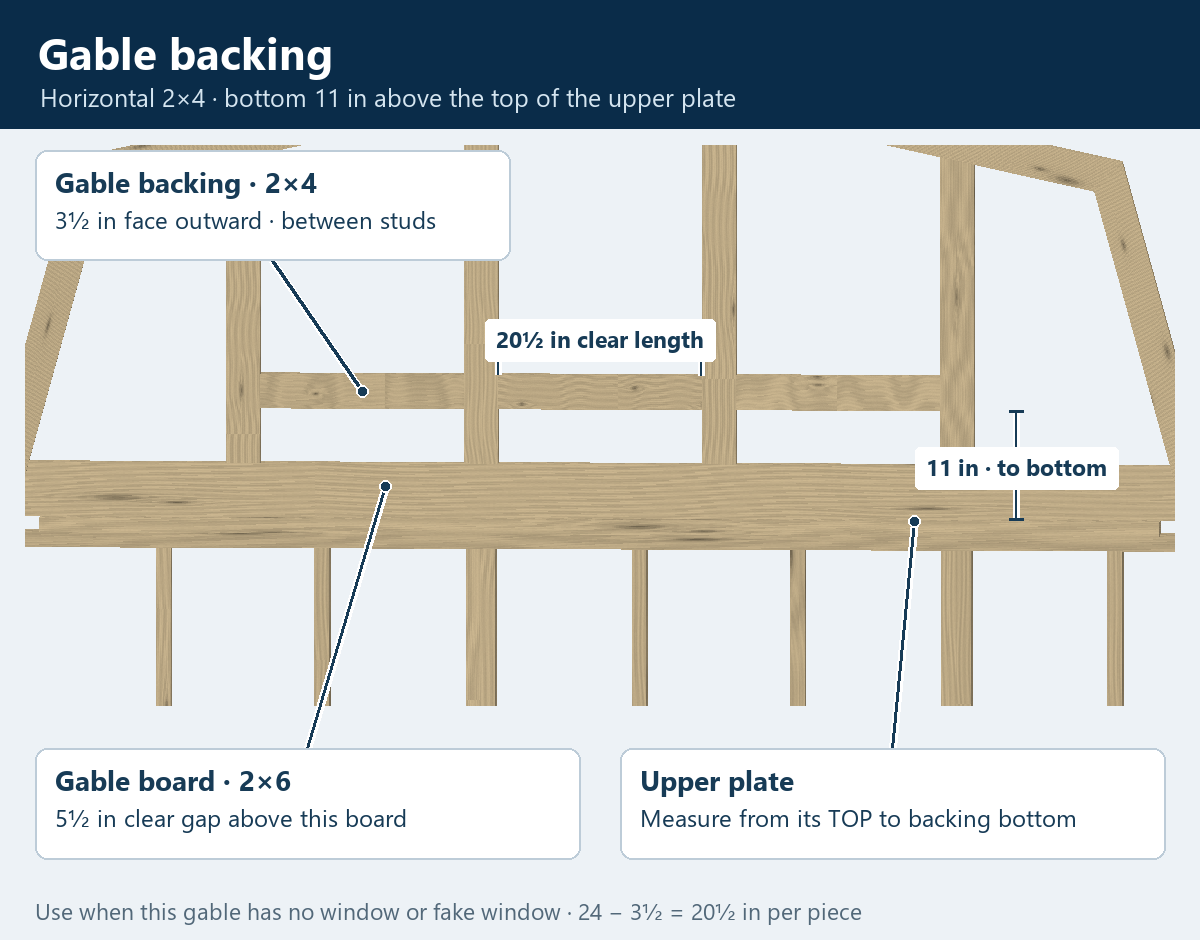
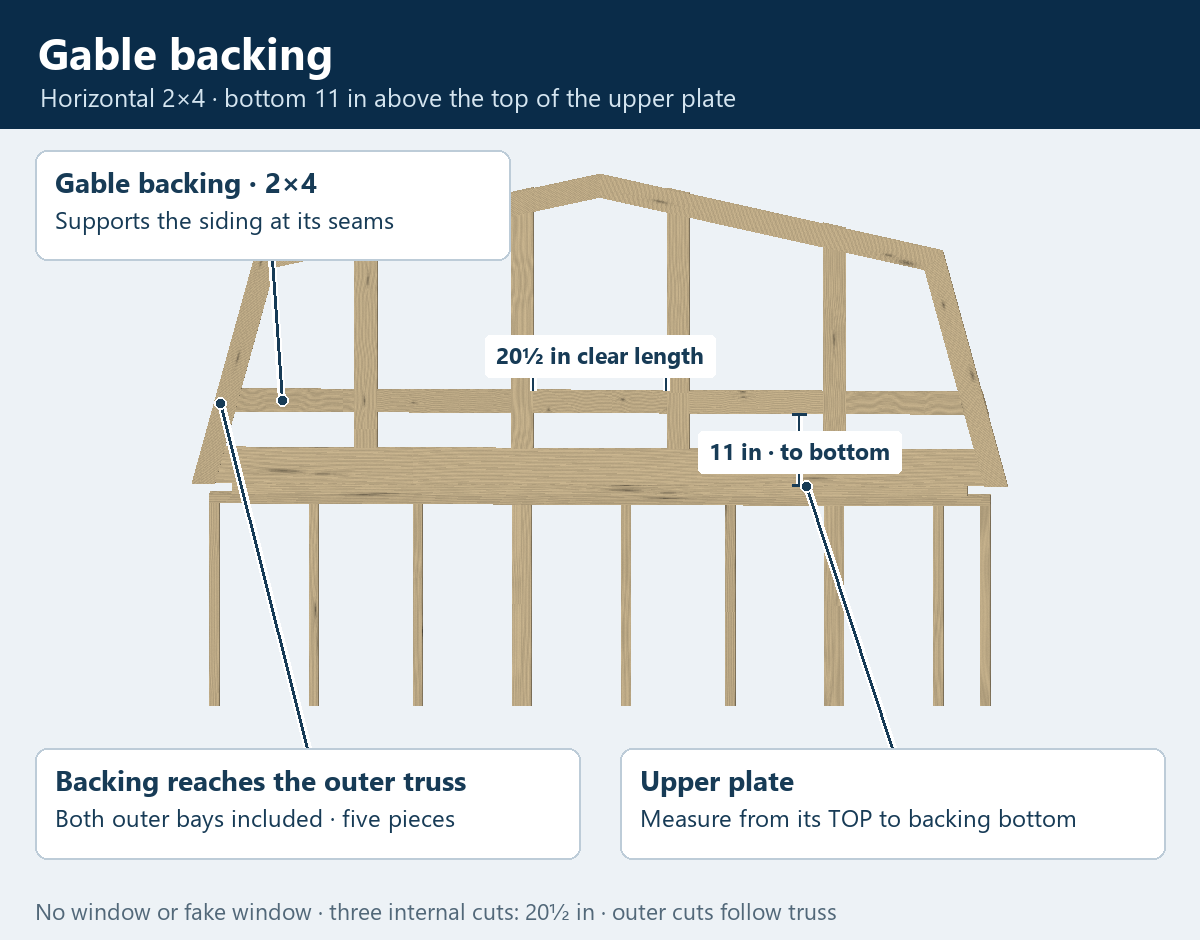
Extend gable backing to outer truss for siding seams

diff --git a/parts/gable-backing.js b/parts/gable-backing.js
@@ -1,11 +1,12 @@
-/* GABLE BACKING: Alan's horizontal 2x4 pieces between the gable studs,
+/* GABLE BACKING: Alan's horizontal 2x4 siding-seam support across the gable,
    present when that gable has no window or fake window. Their bottoms are
    11 inches above the TOP OF THE UPPER PLATE, not above the gable board.
    Actual lumber is 1.5 x 3.5 inches. Alan confirmed the broad faces align
    outward with the wide faces of the gable studs.
-   Lengths come from the clear distance between neighboring stud faces.
+   Fill internal stud bays AND the outer bays, right out to the truss.
+   Outer ends follow the existing behind-truss-face preview joint.
    This rule is enabled only in the learned truss/gable assembly. */
-import { prismMember, drawMembers } from "./floor-frame.js";
+import { prismMember, drawMembers, clipHalf, cleanPoly, polyArea } from "./floor-frame.js";
 import { trussGableStudMembers } from "../model/truss-study.js";
 
 export function gableBackingRule(plan) {
@@ -45,27 +46,55 @@ export function gableBackingMembers(plan) {
   const studs = trussGableStudMembers(plan).sort((a, b) => a.meta.centerIn - b.meta.centerIn);
   const y0 = rule.bottomYFt - study.baseYFt, y1 = rule.topYFt - study.baseYFt;
   const out = [];
+  function add(poly, meta) {
+    const bottom = poly.filter(p => Math.abs(p[1] - y0) < 1e-8).sort((a,b) => a[0]-b[0]);
+    const top = poly.filter(p => Math.abs(p[1] - y1) < 1e-8).sort((a,b) => a[0]-b[0]);
+    if (polyArea(poly) <= 0 || bottom.length < 2 || top.length < 2)
+      throw new Error("Gable backing must fit its full height below the outer truss.");
+    const item = prismMember("gable-backing", "lumber", poly,
+      [study.centerXFt, study.baseYFt, study.boardFrontZFt - rule.thicknessIn / 12],
+      [1,0,0], [0,1,0], [0,0,1], rule.thicknessIn / 12,
+      { wall: rule.end, lesson: true, name: "Gable backing", size: rule.nominal,
+        orientation: rule.orientation, purpose: "siding-seam-support", ...meta,
+        grainEdgeIn: [bottom[0], bottom.at(-1)].map(p => p.map(v => v * 12)),
+        topLengthIn: (top.at(-1)[0] - top[0][0]) * 12,
+        faceWidthFt: rule.heightIn / 12, bottomDatum: rule.datum, bottomOffsetIn: rule.bottomOffsetIn });
+    item.stage = "roof-frame";
+    out.push(item);
+  }
+  if (!studs.length) throw new Error("Gable backing needs the gable stud layout.");
+  function outer(stud, side) {
+    const x = side === "left" ? Math.min(...stud.poly.map(p => p[0])) : Math.max(...stud.poly.map(p => p[0]));
+    if (![y0,y1].every(y => contains(stud.poly,x,y)))
+      throw new Error("The outer backing must contact the full height of the outermost stud.");
+    const p = study.profile, tip = p.tip[0]/12;
+    const x0 = side === "left" ? -tip : x, x1 = side === "left" ? x : tip;
+    let poly = [[x0,y0],[x1,y0],[x1,y1],[x0,y1]];
+    // Like the stud tops, these ends reach behind the truss for face contact.
+    // The owner's extent is confirmed; this precise cut/joint is a preview fit.
+    for (const slope of [-p.upperSlope,p.upperSlope])
+      poly = clipHalf(poly,-slope,-1,study.peakRiseIn/12);
+    for (const slope of [-p.lowerSlope,p.lowerSlope])
+      poly = clipHalf(poly,-slope,-1,(p.tipY+p.lowerSlope*p.tip[0])/12);
+    add(cleanPoly(poly), { bay: "outer", side, adjacentStud: stud.meta.layoutIndex,
+      endFit: "behind-truss-face", endFitStatus: "provisional" });
+  }
+  outer(studs[0], "left");
   for (let i = 0; i < studs.length - 1; i++) {
     const left = studs[i], right = studs[i + 1];
     const x0 = Math.max(...left.poly.map(p => p[0])), x1 = Math.min(...right.poly.map(p => p[0]));
     if (x1 <= x0 || ![y0, y1].every(y => contains(left.poly, x0, y) && contains(right.poly, x1, y)))
       throw new Error("Gable backing must fit fully between both neighboring studs at its specified height.");
-    const item = prismMember("gable-backing", "lumber", [[x0,y0],[x1,y0],[x1,y1],[x0,y1]],
-      [study.centerXFt, study.baseYFt, study.boardFrontZFt - rule.thicknessIn / 12],
-      [1,0,0], [0,1,0], [0,0,1], rule.thicknessIn / 12,
-      { wall: rule.end, lesson: true, name: "Gable backing", size: rule.nominal,
-        orientation: rule.orientation, betweenStuds: [left.meta.layoutIndex, right.meta.layoutIndex],
-        grainEdgeIn: [[x0 * 12, y0 * 12], [x1 * 12, y0 * 12]],
-        faceWidthFt: rule.heightIn / 12, bottomDatum: rule.datum, bottomOffsetIn: rule.bottomOffsetIn });
-    item.stage = "roof-frame";
-    out.push(item);
+    add([[x0,y0],[x1,y0],[x1,y1],[x0,y1]],
+      { bay: "internal", betweenStuds: [left.meta.layoutIndex, right.meta.layoutIndex] });
   }
+  outer(studs.at(-1), "right");
   return out;
 }
 
 export default {
   id: "gable-backing", name: "Gable backing", stage: "roof-frame",
-  realLife: "Horizontal backing between the gable studs when this gable has no window or fake window; its bottom is measured from the upper-plate top.",
+  realLife: "Horizontal backing across the gable to the outer truss supports siding seams. Used with no gable window or fake window; its bottom is measured from the upper-plate top.",
   appliesTo(plan) { return Boolean(gableBackingRule(plan)?.enabled); },
   members: gableBackingMembers,
   build(plan, kit) { drawMembers(kit, gableBackingMembers(plan), "roof-frame"); },

diff --git a/truss.html b/truss.html
@@ -40,11 +40,11 @@
     <p>For a real gable window, the studs move to its two sides and horizontal 2×4s form the top and bottom. All four <strong>3½-inch faces point outward</strong>. The opening determines the measurements; there is no single window size for every barn.</p>
     <figure><a href="images/gable-window-18x24.png"><img src="images/gable-window-18x24.png" width="1200" height="940" alt="Changeable 18 by 24 inch window opening with side studs and horizontal top and bottom 2x4s, all wide faces outward."></a><figcaption>Example 18 × 24-inch clear opening. Tap to enlarge. Size and auto-fit height are for demonstration.</figcaption></figure>
     <figure><a href="images/gable-window-30x18.png"><img src="images/gable-window-30x18.png" width="1200" height="940" alt="The same framing rule recalculated for a wider 30 by 18 inch example window opening."></a><figcaption>The same rule with a 30 × 18-inch opening: studs move outward and crosspieces lengthen. The between-stud board-end joint is a preview choice.</figcaption></figure>
-    <h2>Gable backing</h2>
-    <p>When this gable has <strong>no window or fake window</strong>, horizontal <strong>2×4 gable backing</strong> fits between the gable studs. Its <strong>3½-inch face points outward</strong> in line with the studs. Measure <strong>11 inches from the top of the upper plate to the bottom of the backing</strong>.</p>
+    <h2 id="gable-backing">Gable backing</h2>
+    <p>When this gable has <strong>no window or fake window</strong>, horizontal <strong>2×4 gable backing</strong> runs across all the bays, <strong>all the way to the outer truss</strong> on both sides. It supports the siding where the seams meet. Its <strong>3½-inch face points outward</strong> in line with the studs. Measure <strong>11 inches from the top of the upper plate to the bottom of the backing</strong>.</p>
     <figure>
-      <a href="images/gable-backing.png"><img src="images/gable-backing.png" width="1200" height="940" alt="Three horizontal 2×4 gable backing pieces between the outward-facing gable studs. Each is 20½ inches long. A vertical dimension measures 11 inches from upper-plate top to backing bottom, leaving a 5½-inch gap above the gable board."></a>
-      <figcaption>Each clear cut length is 24-inch stud spacing minus the 3½-inch stud face: <strong>20½ inches</strong>. The 11-inch measurement starts at the upper plate, giving a 5½-inch gap above the gable board. Tap to enlarge.</figcaption>
+      <a href="images/gable-backing.png?v=outer-bays-1"><img src="images/gable-backing.png?v=outer-bays-1" width="1200" height="940" alt="Five horizontal 2×4 gable backing pieces support siding seams. Three fill the internal stud bays and two reach the outer truss. A vertical dimension measures 11 inches from upper-plate top to backing bottom."></a>
+      <figcaption>The three internal clear cuts are 24-inch spacing minus the 3½-inch stud face: <strong>20½ inches</strong>. Two outer pieces fit the sloping truss; their exact end joint is shown as a preview. The 11-inch measurement starts at the upper plate, giving a 5½-inch gap above the gable board. Tap to enlarge.</figcaption>
     </figure>
     <h2>The truss above the end wall</h2>
     <figure>
@@ -67,7 +67,7 @@
       <dt>Upper piece leading to the peak</dt><dd>54 inches between its longest points.</dd>
       <dt>Lower, steeper piece</dt><dd>37¾ inches between its longest points.</dd>
       <dt>Peak height</dt><dd>48 inches above the top of the upper plate · calculated 127½ inches above flooring.</dd>
-      <dt>Gable backing</dt><dd>Three horizontal 2×4 pieces, each 20½ inches long, wide face outward. Bottom 11 inches above upper-plate top. Omitted with a gable window or fake window.</dd>
+      <dt>Gable backing</dt><dd>Five horizontal 2×4 pieces across to the outer truss support siding seams: three internal pieces at 20½ inches plus two outer pieces fitted to the truss. Wide face outward. Bottom 11 inches above upper-plate top. Omitted with a gable window or fake window.</dd>
       <dt>Gable studs</dt><dd>2×4 nominal · 1½ × 3½ inches actual · 3½-inch face outward · seated on the gable board.</dd>
       <dt>Stud layout</dt><dd>24 inches on center, measured from the outside edge of the end wall. This preview places their centers at 24, 48, 72 and 96 inches.</dd>
       <dt>Tip-to-tip width in this mirrored preview</dt><dd>113-inch upper plate + 6¼ inches at each end = 125½ inches.</dd>

diff --git a/ui/learn-wall.js b/ui/learn-wall.js
@@ -227,7 +227,7 @@ export async function startWallLesson({gable=false,truss=false}={}) {
         : "The truss lengths follow the longest edges. Gable backing view measures 11 inches from upper-plate top to backing bottom. Front view shows the 4-foot rise; Connection close-up shows 6¼ inches from the truss tip to the upper-plate cut.";
       $("piece-title").textContent=isWindow?"Gable window box — follows the opening":"Truss, gable studs and gable backing";
       $("piece-description").textContent="The 2×4 truss goes against the front face of the gable board, with the whole bottom cut level with the gable board’s bottom and the upper plate’s top. Its upper pieces lead to the peak; the lower pieces form the steeper sides. The gable studs remain on the board; their top fit behind the truss is a preview choice."
-        +(isWindow?" The gable studs move to the two sides of the selected opening. Horizontal 2×4s form the top and bottom, with all four wide faces outward.":t.backingMembers.length?" Gable backing fits horizontally between the studs, wide face outward. Its bottom is 11 inches above the upper-plate top. It is used when this gable has no window or fake window.":" Gable backing is omitted for a fake window; its framing remains to learn.");
+        +(isWindow?" The gable studs move to the two sides of the selected opening. Horizontal 2×4s form the top and bottom, with all four wide faces outward.":t.backingMembers.length?" Gable backing runs across all bays to the outer truss, supporting the siding where its seams meet. Its wide face points outward and its bottom is 11 inches above the upper-plate top. It is used when this gable has no window or fake window.":" Gable backing is omitted for a fake window; its framing remains to learn.");
       $("piece-draft").textContent="The 2×4 gable studs have their 3½-inch faces outward. Their layout is measured from the outside end-wall edge. This preview reads ‘centered’ as the first stud center at 24 inches; the knee/peak cuts and stud-top connection remain to check.";
       const rows=[
         ["Upper truss piece · longest edge",formatInches(t.upperLengthFt)],
@@ -251,7 +251,9 @@ export async function startWallLesson({gable=false,truss=false}={}) {
       if(t.backingMembers.length) rows.push(
         ["Gable backing · bottom above upper plate",formatInches(t.backingRule.bottomOffsetIn/12)],
         ["Gable backing · actual section",`${formatInches(t.backingRule.thicknessIn/12)} × ${formatInches(t.backingRule.heightIn/12)} · wide face outward`],
-        ["Backing pieces · calculated clear lengths",t.backingMembers.map(b=>formatInches(b.lengthFt)).join(" · ")]);
+        ["Internal backing · clear lengths",t.backingMembers.filter(b=>b.member.meta.bay==="internal").map(b=>formatInches(b.lengthFt)).join(" · ")],
+        ["Outer backing · bottom / top edge lengths",t.backingMembers.filter(b=>b.member.meta.bay==="outer").map(b=>`${formatInches(b.lengthFt)} / ${formatInches(b.member.meta.topLengthIn/12)}`).join(" · ")],
+        ["Outer backing fit","Reaches the truss · angled end joint shown as a preview"]);
       const list=$("piece-measurements");list.replaceChildren();
       for(const [title,value] of rows) {const row=document.createElement("div"),dt=document.createElement("dt"),dd=document.createElement("dd");dt.textContent=title;dd.textContent=value;row.append(dt,dd);list.appendChild(row);}
       $("measurement-note").textContent="The 6¼-inch measurement ends at the upper plate's cut, not at the end of the gable board. Sloping lengths and the vertical peak rise are separate dimensions. This preview lets us check the fit before agreeing on the remaining cuts and stud details.";

diff --git a/ui/learn-truss-labels.js b/ui/learn-truss-labels.js
@@ -66,8 +66,9 @@ export function createTrussLabels(viewport,renderer) {
       const right=t.backingMembers.at(-1).bounds.x1Ft+.5;
       dimension([right,g.upperPlate.bounds.y1Ft,z],[right,b.y0Ft,z],"11″ · to backing bottom",16);
       dimension([b.x0Ft,b.y1Ft,z],[b.x1Ft,b.y1Ft,z],`${inches(piece.lengthFt)} clear length`,-26);
-      card("Gable backing","2×4 · wide face outward","between neighboring studs",[piece.center[0],piece.center[1],z],14,16);
-      card("Upper plate","11″ starts at its top","no window or fake window",[0,g.upperPlate.bounds.y1Ft,z],w-cardW-14,h-72);
+      const outer=t.backingMembers[0];
+      card("Gable backing","2×4 · supports siding seams","all the way to outer truss",[outer.center[0],outer.center[1],z],14,16);
+      card("Upper plate","11″ starts at its top","backing face points outward",[0,g.upperPlate.bounds.y1Ft,z],w-cardW-14,h-72);
     } else if(detail) {
       // The extension lines retain the differing endpoint heights. The span
       // itself is horizontal: it is not the sloping distance between points.
@@ -102,7 +103,7 @@ export function createTrussLabels(viewport,renderer) {
     svg.setAttribute("aria-label",opening?.kind==="window" && !detail
       ? `Window box: ${inches(opening.widthIn/12)} clear width by ${inches(opening.heightIn/12)} clear height. Gable studs at both sides, horizontal 2x4s at top and bottom, wide faces outward. Dimensions follow the selected opening.`
       : backing && t.backingMembers.length
-      ? "Gable backing: horizontal 2x4 pieces between gable studs, wide face outward. Bottom 11 inches above upper-plate top. Used only with no gable window or fake window."
+      ? "Gable backing: horizontal 2x4 pieces across all stud bays to the outer truss support siding seams, wide face outward. Bottom 11 inches above upper-plate top. Used only with no gable window or fake window."
       : detail
       ? `Truss connection: ${inches(t.projectionFt.start)} measured horizontally from the farthest truss tip to the cut end of the upper plate.`
       : `Truss fit preview: upper pieces ${inches(t.upperLengthFt)}, lower pieces ${inches(t.lowerLengthFt)}, peak ${inches(t.peakRiseFt)} above the top of the upper plate. Outward 2x4 gable studs at 24-inch centers from the outside wall edge. First center ${inches(t.studFirstCenterFt)} is the preview interpretation; mirrored ends and top joints remain provisional.`);

diff --git a/tools/render-joist-picture.py b/tools/render-joist-picture.py
@@ -177,23 +177,24 @@ def render_truss():
     # Backing close-up uses the same solid members and exact plate-top datum.
     backing=m['backingMembers']
     if backing:
-        assert len(backing)==3
+        assert len(backing)==5
         piece=backing[len(backing)//2];b=piece['bounds'];z=piece['z1Ft']
         assert abs((b['y0Ft']-plate['y1Ft'])*12-11)<1e-8
         assert abs(piece['lengthFt']*12-20.5)<1e-8
         target=[piece['center'][0],plate['y1Ft']+.83,z]
-        im,project=scene(target,8.4,yaw=.04,pitch=.10);d=ImageDraw.Draw(im)
+        im,project=scene(target,12.8,yaw=.04,pitch=.10);d=ImageDraw.Draw(im)
         title(d,'Gable backing','Horizontal 2×4 · bottom 11 in above the top of the upper plate')
-        dimx=max(r['bounds']['x1Ft'] for r in backing)+.65
+        dimx=2.55
         dimension(d,project,[dimx,plate['y1Ft'],z],[dimx,b['y0Ft'],z],'11 in · to bottom',(0,0))
         dimension(d,project,[b['x0Ft'],b['y1Ft'],z],[b['x1Ft'],b['y1Ft'],z],'20½ in clear length',(0,-37))
         leader(d,project([backing[0]['center'][0],backing[0]['center'][1],z]),(35,150,475,110),
-               'Gable backing · 2×4',['3½ in face outward · between studs'])
+               'Gable backing · 2×4',['Supports the siding at its seams'])
         leader(d,project([2.65,plate['y1Ft'],plate['z1Ft']]),(620,748,545,111),
                'Upper plate',['Measure from its TOP to backing bottom'])
-        leader(d,project([-1.8,board['y1Ft']-.2,board['z1Ft']]),(35,748,545,111),
-               'Gable board · 2×6',['5½ in clear gap above this board'])
-        d.text((35,895),'Use when this gable has no window or fake window · 24 − 3½ = 20½ in per piece',font=font(23),fill='#526879')
+        outer=backing[0]
+        leader(d,project([outer['bounds']['x0Ft']+.12,outer['bounds']['y0Ft']+.10,z]),(35,748,545,111),
+               'Backing reaches the outer truss',['Both outer bays included · five pieces'])
+        d.text((35,895),'No window or fake window · three internal cuts: 20½ in · outer cuts follow truss',font=font(23),fill='#526879')
         im.save(ROOT/'images/gable-backing.png')
 
     # A straight-on view makes the end-wall datum and stud center marks clear.

diff --git a/.claude/skills/part-gable-backing/SKILL.md b/.claude/skills/part-gable-backing/SKILL.md
@@ -1,14 +1,16 @@
 ---
 name: part-gable-backing
-description: Add or adjust Alan's horizontal gable backing between gable studs, using the upper-plate height datum, actual stud-face gaps and the no-window-or-fake-window condition.
+description: Model Alan's gable backing for siding seams, across all stud bays to the outer truss, using actual gaps, roof profile and the upper-plate datum.
 ---
 
 # Gable backing (`parts/gable-backing.js`)
 
 ## What it is in real life
 
-**Gable backing** is Alan's name for horizontal nominal 2x4 pieces between
-the gable studs when that gable has **no window and no fake window**.
+**Gable backing** is Alan's name for horizontal nominal 2x4 pieces across
+the gable, **all the way to the outer truss**, supporting the siding where
+its seams meet. Include the bays beyond the outermost studs. Use it when
+that gable has **no window and no fake window**.
 The actual section is **1.5 in thick by 3.5 in high**. Alan confirmed the
 wide face points outward, in line with the gable studs' wide faces.
 The **bottom** of the backing is **11 in above the top of the upper plate**.
@@ -60,6 +62,9 @@ between the gable studs, omitted with a window or fake window, with their
 bottoms 11 in above the upper-plate top. He then explicitly confirmed the
 3.5 in wide face points outward in line with the gable studs. Nominal 2x4
 means actual 1.5 x 3.5 in here. Treatment and fastening details are unspecified.
+On September 30, he corrected the extent: it goes all the way to the outer
+truss, and its purpose is support where the siding seams meet. This replaces
+the earlier implementation that stopped at the outermost studs.
 
 ## Kept quirks
 
@@ -76,19 +81,30 @@ Derive, rather than copying the example's cut length or count:
 - `clear length = right stud's left face - left stud's right face`.
   For equal studs: `center spacing - actual outward face width`.
 - Align the backing's outward face with the studs' outward faces.
-  Each end contacts a neighboring stud across the full backing section.
-- Add one piece per internal stud bay. Do not extend past the outermost
-  gable studs or invent pieces from a stud to the sloping truss.
+  Each stud-side end contacts its stud across the full backing section.
+- Add one piece per internal stud bay **plus one outer piece on each side**,
+  from the outermost stud to the truss. The existing preview has the studs
+  behind the truss face; use the same plane for backing. Clip outer ends to
+  the actual outer roof outline, giving face contact with the truss, rather
+  than leaving a gap at the truss's inner edge. This exact joint/cut remains
+  a preview fit, not a user-confirmed fastening or cut specification.
+- At each backing height `y` relative to upper-plate top, intersect the roof
+  outline. On the lower segment, `outer x = tip x - (y - tip y) / lower slope`.
+  Derive the left side by mirroring; clip to both roof segments if needed.
+  Subtract the outermost stud face position to get the outer piece's length.
+  Calculate at both bottom and top: an angled end has different edge lengths.
+  Render and label these from the polygon; do not copy a 10 ft example length.
 
-For the current four studs at 24 in on center, the result is **three pieces,
-each 20.5 in long** (`24 - 3.5`). Subtract the outward face width, not the
+For the current four studs at 24 in on center, the result is **five pieces**:
+three internal pieces, each **20.5 in** (`24 - 3.5`), plus two outer pieces
+fitted to the truss. Subtract the outward face width, not the
 1.5 in through-wall thickness. The 5.5 in gable board leaves a **5.5 in gap**
 between its top and the backing bottom (`11 - 5.5`). With upper-plate top
 79.5 in above flooring, backing bottom is **90.5 in**, and top is **94 in**.
 Neither the offset nor stock section scales with building width.
 
-For another size, recompute the actual stud layout, clear face gaps and
-piece count. Require both full backing ends to fit the neighboring studs;
+For another size, recompute the actual stud layout, clear face gaps, outer
+roof intersections and piece count. Require full contact at each stud end;
 reject a height that would leave an end above a sloped stud top. Preserve
 the gable board, truss, studs and prior assemblies. The same member records
 drive rendering, dimensions and horizontal wood grain.
@@ -96,7 +112,7 @@ drive rendering, dimensions and horizontal wood grain.
 ## Checks that guard it
 
 `node tools/check-gable-backing.mjs` verifies the upper-plate datum, full
-stud contact, actual mesh volume, three distinct wood finishes, per-end
+stud and truss-face contact, actual tapered mesh volume, five distinct wood finishes, per-end
 real/fake-window exclusions, and recalculation at another width and spacing.
 Run `node tools/check-truss-lesson.mjs` and the required
 `node tools/check-all.mjs --fast` regression checks; report skipped browser

diff --git a/README.md b/README.md
@@ -137,7 +137,7 @@ same terms and construction details.
 | --- | --- |
 | [Customer setup](.agents/skills/shed-customer-setup/SKILL.md) | Set up a company or buyer's design and continue the manual building lesson. |
 | [Measurements for other sizes](.agents/skills/shed-measurements/SKILL.md) | Recalculate lengths from the building width, length, actual lumber and end setbacks, with worked examples. |
-| [Gable backing](.claude/skills/part-gable-backing/SKILL.md) | Horizontal 2x4 pieces between gable studs, 11 in from upper-plate top to backing bottom, only without a window or fake window. |
+| [Gable backing](.claude/skills/part-gable-backing/SKILL.md) | Horizontal 2x4 siding-seam support across all bays to the outer truss, bottom 11 in above upper-plate top, only without a window or fake window. |
 | [Gable window box](.claude/skills/part-gable-window-frame/SKILL.md) | Adjustable opening moves its side studs and resizes top/bottom 2x4s, all wide faces outward. |
 | [Gable framing](.claude/skills/part-gable-frame/SKILL.md) | The gable board, its ledge side and end projections, plus the learned gable-stud rules. |
 | [Roof framing](.claude/skills/part-roof-frame/SKILL.md) | The measured 2x4 truss preview, its upper-plate datum, derived profile and remaining fit assumptions, separate from ordinary model rules. |
@@ -259,7 +259,7 @@ Chromium's software graphics, each on its own port.
 | `check-wall-lesson.mjs` | no | separate side and end walls use 75 in studs, three flat plates and touching pairs at 4 ft marks; exact mesh contacts, volume, floor and ordinary designer are preserved |
 | `check-gable-lesson.mjs` | no | the 2x6 rests on the end upper plate with a 1/2 in inside ledge, 1 1/2 in outside ledge and 2 1/2 in projections; actual mesh, contact and resizing formulas agree, and existing floor/wall/ordinary geometry stays unchanged |
 | `check-truss-lesson.mjs` | no | truss dimensions, plate datum, gable-stud layout and contact agree with the measured fit preview |
-| `check-gable-backing.mjs` | no | backing uses the upper-plate top, fits between stud faces, recalculates at other sizes and is omitted for real or fake gable windows |
+| `check-gable-backing.mjs` | no | backing uses the upper-plate top, fits all stud bays and reaches both outer trusses, recalculates at other sizes and is omitted for real or fake gable windows |
 | `check-gable-window.mjs` | no | different opening sizes/positions, clear cavity, box contacts, exact mesh volume, fit rejection and restoration of no-window framing |
 | `check-model-live.mjs` | yes | the rules (sizes, walls, roof line, standard doors and windows, clamping, prices) are Barnwright's, number for number, against its live page |
 | `check-ui.mjs` | yes | the designer page works: every style, size, colour, door and window, drag, "Add here", layouts on phone and desktop, escaping |

diff --git a/.agents/skills/shed-measurements/SKILL.md b/.agents/skills/shed-measurements/SKILL.md
@@ -102,12 +102,17 @@ from skid bottom; do not label that combined height as stud length.
 
 For **gable backing**, use [its part skill](../../../.claude/skills/part-gable-backing/SKILL.md).
 It is horizontal 2x4, actual 1.5 in thick by 3.5 in high, wide face outward,
-between gable studs when that end has no window or fake window.
+across the gable to the outer truss, supporting siding seams, when that end
+has no window or fake window. Include both outer stud-to-truss bays.
 `bottom = actual upper-plate top + 11 in`; `top = bottom + actual backing height`.
 Derive each cut from neighboring stud faces: `center spacing - half the
 left stud face width - half the right stud face width`. Current result:
-three pieces at 20.5 in (`24 - 3.5`), with 5.5 in above the gable board
-(`11 - 5.5`). Recompute bay count and clear lengths for other widths;
+three internal pieces at 20.5 in (`24 - 3.5`) plus two outer pieces. Derive
+each outer piece from the actual roof outline at backing bottom and top to
+the outermost stud face; keep these different edge lengths for the sloped
+end. Follow the part skill's provisional behind-truss face joint. There is
+5.5 in above the gable board (`11 - 5.5`). Recompute bay count, internal gaps
+and outer roof intersections for other widths;
 do not scale the 11 in offset. A window on another end does not remove it here.
 
 For the learned **gable board**, Alan confirmed on-edge seating

diff --git a/docs/BUILDING-TERMS.md b/docs/BUILDING-TERMS.md
@@ -334,10 +334,15 @@ company's setup without changing the meaning of the shared codes.
 studs, used when that gable has no window or fake window. Alan confirmed
 actual 1.5 x 3.5 in stock, with the 3.5 in face outward in line with the studs.
 Its bottom is **11 in above the top of the upper plate**. With current 24 in
-stud centers and 3.5 in outward faces, each clear piece is a calculated
+stud centers and 3.5 in outward faces, each internal clear piece is a calculated
 **20.5 in**, and the four gable studs leave three internal bays. This leaves
 5.5 in above the 5.5 in gable board. The section, height datum, orientation,
 condition and name are confirmed; lengths and count follow the actual layout.
+Alan's September 30 correction: backing continues **all the way to the outer
+truss**, including both outer bays, because **the siding seams meet here**.
+There are now five pieces in this example: three internal and two outer.
+Outer lengths follow the roof outline at backing bottom and top; the exact
+behind-truss end joint remains a preview fit, like the stud-top connection.
 See [the close-up](../images/gable-backing.png) and
 [reusable part skill](../.claude/skills/part-gable-backing/SKILL.md).
 

diff --git a/.agents/skills/shed-customer-setup/SKILL.md b/.agents/skills/shed-customer-setup/SKILL.md
@@ -411,10 +411,12 @@ the company's customers.
 ## Gable backing when setting up the learned assembly
 
 Use [gable backing](../../../.claude/skills/part-gable-backing/SKILL.md)
-for the horizontal 2x4 pieces between gable studs: broad faces outward,
+for the horizontal 2x4 pieces across the gable to the outer truss, including
+both outer bays. They support the siding where its seams meet: broad faces outward,
 bottom 11 in above upper-plate top. Include it only on a gable without a
-window or fake window. Recalculate the clear stud-to-stud lengths and bay
-count for the customer's size. Do not infer this rule for unrelated builders.
+window or fake window. Recalculate the clear stud-to-stud lengths, outer
+stud-to-truss fits and bay count for the customer's size. Do not infer this
+rule for unrelated builders or invent siding sheet dimensions or fasteners.
 
 For a **real gable window**, Alan confirmed a different layout: move the
 gable studs to the two sides of the opening and add horizontal 2x4s above

diff --git a/docs/examples/10x16-side-loft.md b/docs/examples/10x16-side-loft.md
@@ -695,6 +695,11 @@ For the current layout, three pieces fill the internal stud bays; each cut
 is `24 - 3.5 = 20.5 in`. Bottom elevation above flooring is
 `79.5 + 11 = 90.5 in`, and top is `90.5 + 3.5 = 94 in`. The space above the
 gable board is `11 - 5.5 = 5.5 in`. These are derived dimensions.
+Alan corrected the extent on September 30: it goes **all the way to the outer
+truss** and supports the **siding seams**. Add two outer stud-to-truss pieces,
+giving five pieces total. Their tapered ends derive from the actual roof
+outline at 11 in and 14.5 in, using the existing behind-truss face joint as
+a preview fit. Only the three internal pieces have the 20.5 in clear cut.
 The [backing close-up](../../images/gable-backing.png) shows the actual datum;
 [its skill](../../.claude/skills/part-gable-backing/SKILL.md) explains reuse at
 another size and per-gable window/fake-window exclusion. No fastening or

diff --git a/docs/ARCHITECTURE.md b/docs/ARCHITECTURE.md
@@ -291,8 +291,10 @@ the SHA-256 of Barnwright's file.
 
 The learned `gable-backing` framing entry follows `roof-frame`. It is active
 only with the opt-in truss lesson and the company’s `gableBacking` settings;
-its selected-end window/fake-window condition and actual stud-face gaps
-control the pieces. It shares stage `roof-frame`.
+its selected-end window/fake-window condition, actual stud-face gaps and
+outer roof outline control the pieces. Both outer bays extend behind the
+truss face to support siding seams. Outer cuts derive at both backing-edge
+heights; the precise face joint is provisional. It shares stage `roof-frame`.
 
 The opt-in `gable-window-frame` entry follows it, also in `roof-frame`.
 Its two horizontals read the selected clear `trussStudy.windowOpening`;
